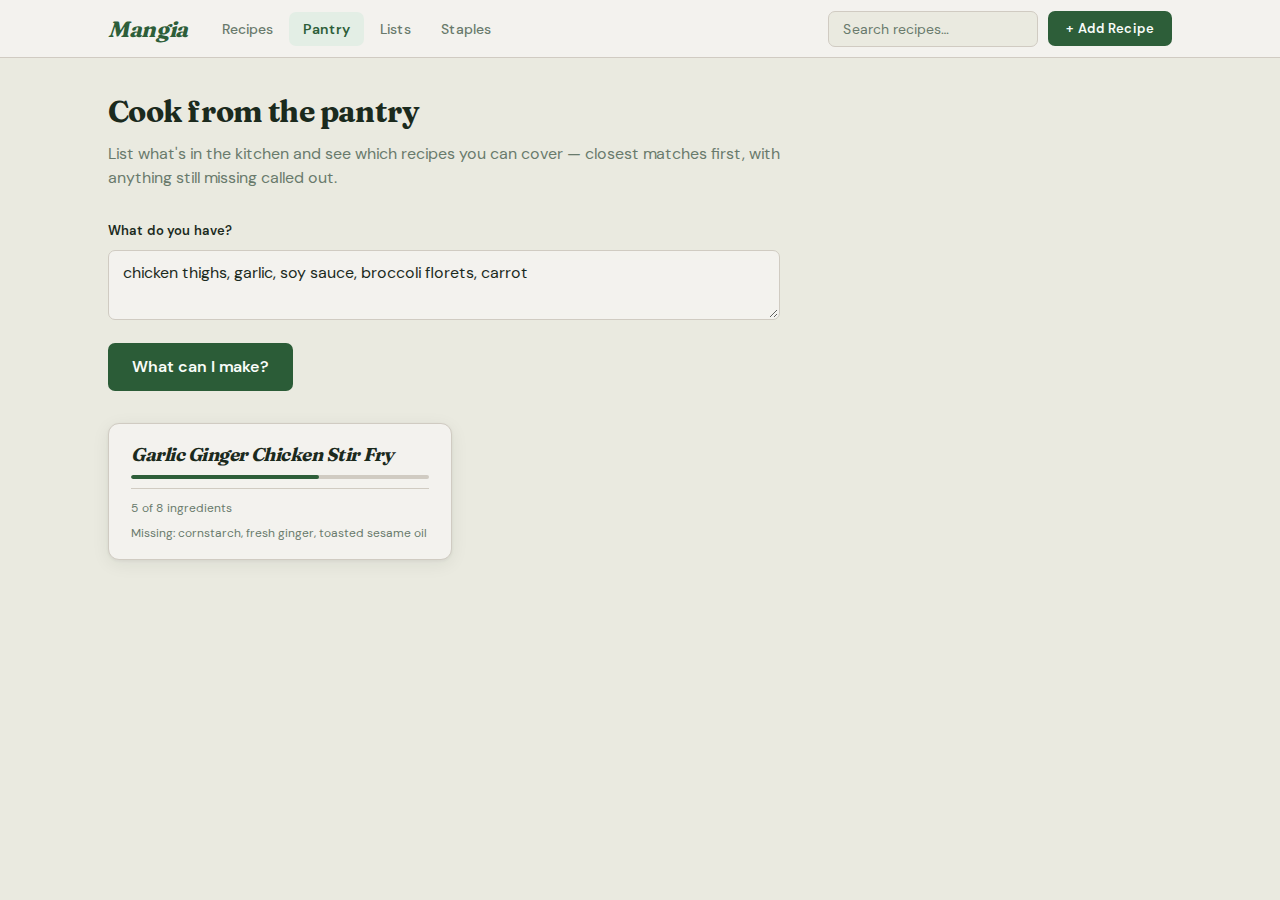
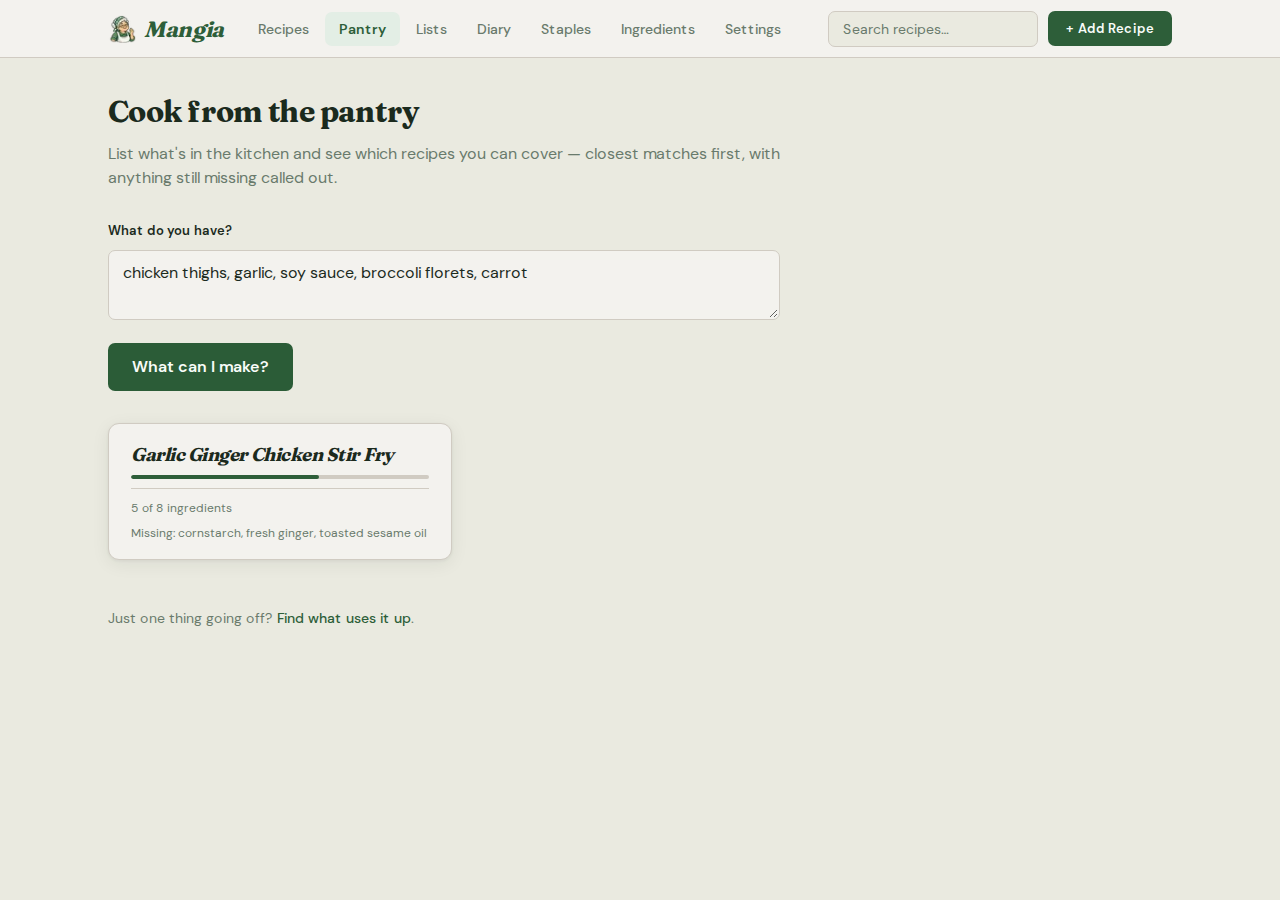
docs: refresh README, config docs and screenshots

diff --git a/e2e/screenshots.spec.ts b/e2e/screenshots.spec.ts
@@ -124,21 +124,62 @@ async function seed(request: APIRequestContext): Promise<string[]> {
   return ids
 }
 
+// The e2e FoodData Central stub knows no foods, so the stir fry's ingredients
+// get USDA-like values per 100 g here, and a weight for each unit that is not
+// already one. That gives the nutrition shot a complete estimate.
+const STIR_FRY_NUTRITION: Record<string, { per100g: number[]; weight?: [string | null, number] }> = {
+  //                     kcal protein carbs fat fiber sugar sodium
+  'chicken thighs':    { per100g: [121, 19.7, 0, 4.1, 0, 0, 95] },
+  cornstarch:          { per100g: [381, 0.3, 91, 0.1, 0.9, 0, 9], weight: ['tablespoon', 8] },
+  garlic:              { per100g: [149, 6.4, 33, 0.5, 2.1, 1, 17], weight: ['clove', 3] },
+  'fresh ginger':      { per100g: [80, 1.8, 18, 0.8, 2, 1.7, 13], weight: ['tablespoon', 6] },
+  'broccoli florets':  { per100g: [34, 2.8, 6.6, 0.4, 2.6, 1.7, 33], weight: ['cup', 91] },
+  carrot:              { per100g: [41, 0.9, 9.6, 0.2, 2.8, 4.7, 69], weight: [null, 61] },
+  'soy sauce':         { per100g: [53, 8.1, 4.9, 0.6, 0.8, 0.4, 5493], weight: ['tablespoon', 16] },
+  'toasted sesame oil': { per100g: [884, 0, 0, 100, 0, 0, 0], weight: ['tablespoon', 13.6] },
+}
+
+async function seedNutrition(request: APIRequestContext) {
+  const res = await request.get('/api/ingredients')
+  const { ingredients } = (await res.json()) as { ingredients: { id: string; name: string }[] }
+  for (const [name, { per100g, weight }] of Object.entries(STIR_FRY_NUTRITION)) {
+    const id = ingredients.find((row) => row.name === name)!.id
+    const [kcal, protein, carbs, fat, fiber, sugar, sodium] = per100g
+    await request.put(`/api/ingredients/${id}/nutrition`, {
+      data: { nutrients: { kcal, protein, carbs, fat, fiber, sugar, sodium } },
+    })
+    if (weight) {
+      await request.put(`/api/ingredients/${id}/weights`, {
+        data: { unit: weight[0], grams: weight[1] },
+      })
+    }
+  }
+}
+
 test.use({ viewport: VIEWPORT })
 
 test('captures the README screenshots', async ({ page, request }) => {
   mkdirSync(OUT, { recursive: true })
   const ids = await seed(request)
+  await seedNutrition(request)
 
   // Browse: the whole library, most recent first.
   await page.goto('/')
   await expect(page.getByRole('heading', { name: 'Tomato Basil Soup' })).toBeVisible()
   await page.screenshot({ path: `${OUT}/browse.png`, caret: 'initial' })
 
-  // A single recipe, ingredients and method side by side.
+  // A single recipe, the ingredients above the method.
   await page.goto(`/recipes/${ids[1]}`)
   await expect(page.getByRole('heading', { name: 'Garlic Ginger Chicken Stir Fry' })).toBeVisible()
+  await expect(page.getByRole('term').filter({ hasText: 'Calories' })).toBeVisible()
   await page.screenshot({ path: `${OUT}/recipe.png`, caret: 'initial' })
+
+  // The same recipe's nutrition, opened from the action row.
+  await page.getByRole('button', { name: 'Nutrition', exact: true }).click()
+  const nutrition = page.getByRole('dialog', { name: 'Nutrition' })
+  await expect(nutrition.getByText('Estimate covers 8 of 8 ingredients')).toBeVisible()
+  await nutrition.getByText('Breakdown').click()
+  await page.screenshot({ path: `${OUT}/nutrition.png`, caret: 'initial' })
 
   // The paste-a-blob entry path, mid-review, with the parsed rows showing.
   await page.goto('/recipes/new')

diff --git a/README.md b/README.md
@@ -19,9 +19,15 @@ have.
 
 ![The recipe library](docs/screenshots/browse.png)
 
-**A recipe** — ingredients, method, and tags.
+**A recipe** — the whole ingredient list gathered above the method, with the
+times and an estimated calorie count beside the title.
 
 ![A single recipe](docs/screenshots/recipe.png)
+
+**Nutrition** — per-serving macros estimated from USDA data, opened from the
+recipe's action row, with a line-by-line breakdown of what was counted.
+
+![The nutrition dialog for a recipe](docs/screenshots/nutrition.png)
 
 **Cooking from what you have** — type in your ingredients and see what is
 within reach, with the gaps called out.
@@ -39,7 +45,8 @@ To regenerate these after a UI change:
 npm run screenshots
 ```
 
-That rebuilds `e2e.db`, seeds the mock recipes, and overwrites
+That rebuilds `e2e.db`, seeds the mock recipes and their ingredient
+nutrition, and overwrites
 `docs/screenshots/`. It needs the Playwright browser (see [Tests](#tests)).
 
 ## Run it
@@ -83,13 +90,14 @@ restart.
 
 | Variable | Required | Default | Notes |
 | --- | --- | --- | --- |
-| `LLM_PROVIDER` | no | `gemini` | `gemini` or `openai-compatible` (Ollama, LM Studio, vLLM…). Only needed for URL import, the AI clean-up button, and higher-quality photo reading. |
+| `LLM_PROVIDER` | no | `gemini` | `gemini` or `openai-compatible` (Ollama, LM Studio, vLLM…). Only needed for URL and video import, the AI clean-up button, higher-quality photo reading, and help matching foods for nutrition. Video import needs `gemini`. |
 | `LLM_API_KEY` | no | — | API key for the chosen provider. Leave blank for an `openai-compatible` endpoint that doesn't require one. |
 | `LLM_MODEL` | no | `gemini-2.5-flash` | Defaults to `gemini-2.5-flash` for gemini, `gpt-4o-mini` for openai-compatible. |
 | `LLM_BASE_URL` | no | — | Only for `openai-compatible`, e.g. `http://192.168.1.10:11434/v1` for Ollama. |
 | `GOOGLE_DRIVE_CREDENTIALS` | no | — | Service account key JSON, or a path to it, for Google Drive backups. Easier to set from **/settings**, which lets you pick the file instead of pasting JSON. |
 | `GOOGLE_DRIVE_FOLDER_ID` | no | — | The Drive folder to upload backups into. Share it with the service account's address. |
 | `GOOGLE_DRIVE_BACKUP_INTERVAL_HOURS` | no | `24` | Hours between Google Drive backups. |
+| `USDA_API_KEY` | no | `DEMO_KEY` | FoodData Central key for nutrition estimates, free from [api.data.gov](https://api.data.gov/signup/). Without one the shared `DEMO_KEY` is used, limited to 30 lookups an hour. |
 
 ## Develop
 
@@ -151,7 +159,8 @@ Four doors, all on **Add**:
 1. **Paste a block of ingredients.** Parsed locally with no model call.
    Anything the parser is unsure of is flagged amber; one button sends only
    those lines to the LLM.
-2. **Paste a URL.** JSON-LD is tried first; the model is a fallback.
+2. **Paste a URL.** JSON-LD is tried first; the model is a fallback. YouTube,
+   Instagram and TikTok links are read as videos instead — see below.
 3. **Photograph a card.** See below.
 4. **Type it out.** The same review table, starting empty.
 
@@ -181,6 +190,80 @@ shown on the recipe page, and included in exports and backups.
 The first photo read in a fresh container downloads its language data
 (~5 MB), so it is slower than the ones after it.
 
+### From a video
+
+A YouTube, Instagram or TikTok link goes down a short ladder. The caption is
+tried first: if it is long enough and names amounts, it is parsed like any
+pasted recipe and the video is never touched. Otherwise the video itself goes
+to the model — YouTube by URL, Instagram and TikTok downloaded with `yt-dlp`
+and sent as bytes. The form says which rung produced the draft.
+
+Reading the video needs Gemini; the `openai-compatible` provider only gets the
+caption rung. The Docker image ships `yt-dlp` but not `ffmpeg`, so the download
+asks for a single progressive MP4. Any other link is treated as an article.
+
+## Nutrition
+
+Every recipe gets an estimate of calories, protein, carbs, fat, fiber, sugar
+and sodium, per serving when the servings are known and for the whole recipe
+otherwise. The calories show beside the title; the rest is behind the
+**Nutrition** button in the recipe's action row, along with a breakdown of what
+each ingredient contributed.
+
+The figures come from [USDA FoodData Central](https://fdc.nal.usda.gov/)
+(Foundation and SR Legacy foods). Values per 100 g and the weight of units like
+"1 cup" or "2 cloves" are stored per ingredient, not per recipe, so one lookup
+serves every recipe that uses it. Lookups start on their own the first time a
+recipe is opened, and never hold up the page.
+
+When a food can't be matched or a unit has no known weight, the dialog lists it
+as needing input: enter the values by hand, retry the lookup, or leave it out.
+With an LLM configured it can pick the right FoodData Central match, estimate a
+unit's weight, and suggest values for things USDA doesn't carry. Without one,
+only a confident top search result is trusted and the rest is left to you.
+
+- **Override** a recipe's figures outright — from the back of a book, say —
+  with a note on where they came from.
+- **/ingredients** lists every ingredient's stored values and unit weights, and
+  an edit there reaches every recipe using it.
+- The **print** card carries a one-line macro summary.
+- Exports and backups carry the nutrition, and importing one fills gaps without
+  overwriting values you already have.
+
+A FoodData Central key is optional. Without one the shared `DEMO_KEY` is used,
+which allows 30 lookups an hour — enough to get going, and lookups run one at a
+time to stay under it. A free key from [api.data.gov](https://api.data.gov/signup/)
+lifts the limit.
+
+## Around the app
+
+- **Recipes** — the library: sort by recency or total time, filter by tag or
+  by how many minutes you have. **Search** covers titles, descriptions,
+  ingredients, method and notes.
+- **A recipe** — a cook view that splits the method into checkable steps, a
+  print card, editing, a log of when it was cooked with notes, and the
+  original photo if one was kept.
+- **Pantry** — "what can I make?" Enter what you have; recipes are ranked on
+  how little is missing.
+- **Leftovers** — the other way round: "what uses this?" Name the half tub of
+  ricotta and see recipes ranked on how little else they need.
+- **Lists** — shopping lists merged across recipes, each line tracing back to
+  the recipes that wanted it. Staples you always have are skipped by
+  default.
+- **Diary** — every cook across all recipes: what was made lately, what gets
+  made most, and what has been quietly forgotten.
+- **Staples** — what you always have on hand, plus a tag editor for renaming
+  and merging tags.
+- **Ingredients** — the nutrition values described above.
+- **Settings** — the LLM, the FoodData Central key, and backups.
+
+### Backups
+
+**/settings** can download every recipe as one
+`mangia-backup-YYYY-MM-DD.json` file and import one back; imported recipes are
+added alongside what is already there. It can also upload a backup to Google
+Drive on an interval, using a service account and a folder shared with it.
+
 ## Settings
 
 Everything configurable lives at **/settings**, and nothing there needs a
@@ -195,10 +278,13 @@ Each setting can also come from the environment. A value saved in the UI wins;
 | --- | --- |
 | Provider, API key, model, base URL | `LLM_PROVIDER`, `LLM_API_KEY`, `LLM_MODEL`, `LLM_BASE_URL` |
 | Service account key, folder id, interval | `GOOGLE_DRIVE_CREDENTIALS`, `GOOGLE_DRIVE_FOLDER_ID`, `GOOGLE_DRIVE_BACKUP_INTERVAL_HOURS` |
+| USDA API key | `USDA_API_KEY` |
 
 ### LLM providers
 
 Choose Gemini with an API key, or an OpenAI-compatible endpoint pointed at
 Ollama or LM Studio via its base URL. The app works without either — you lose
-URL import and the AI clean-up button, and photo import falls back to
-on-device text recognition. Nothing else.
+URL import, video import and the AI clean-up button, photo import falls back
+to on-device text recognition, and nutrition lookups trust only confident
+matches, leaving the rest for you to fill in. Nothing else. Reading a video
+needs Gemini; an OpenAI-compatible endpoint can't.
